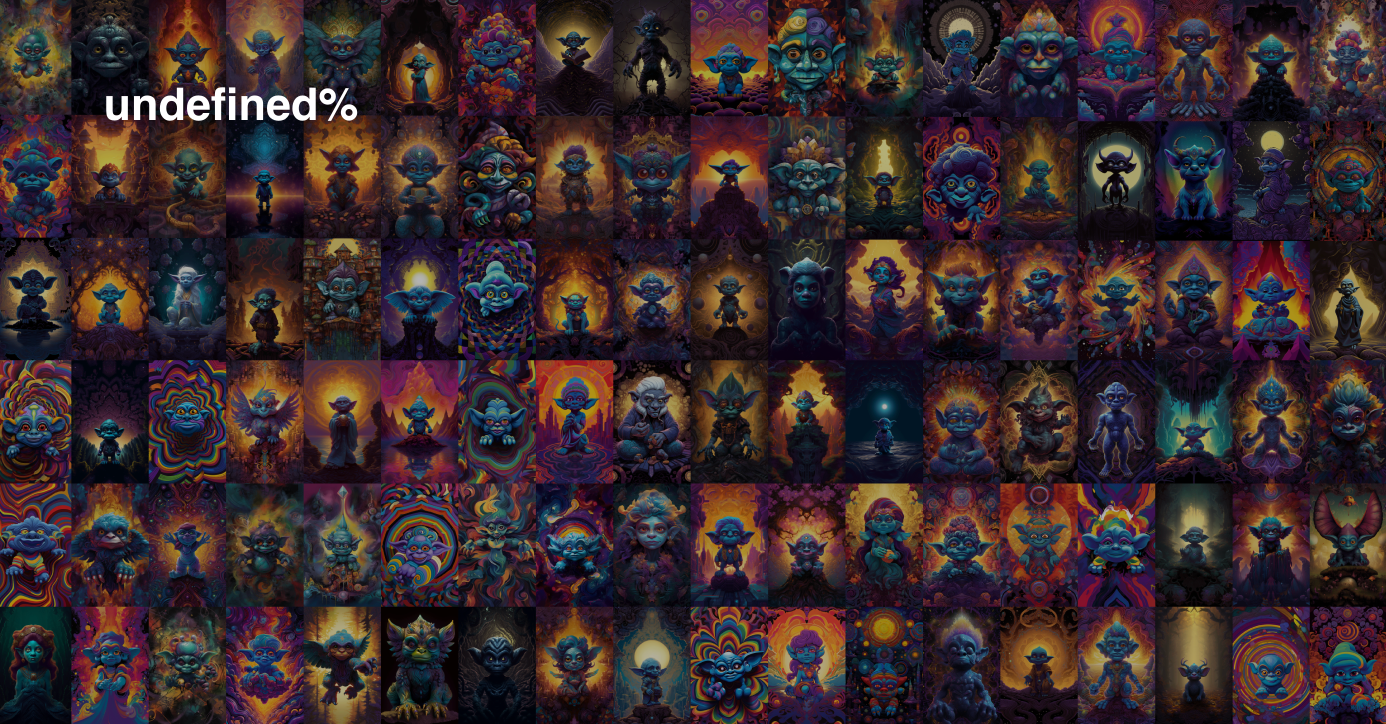
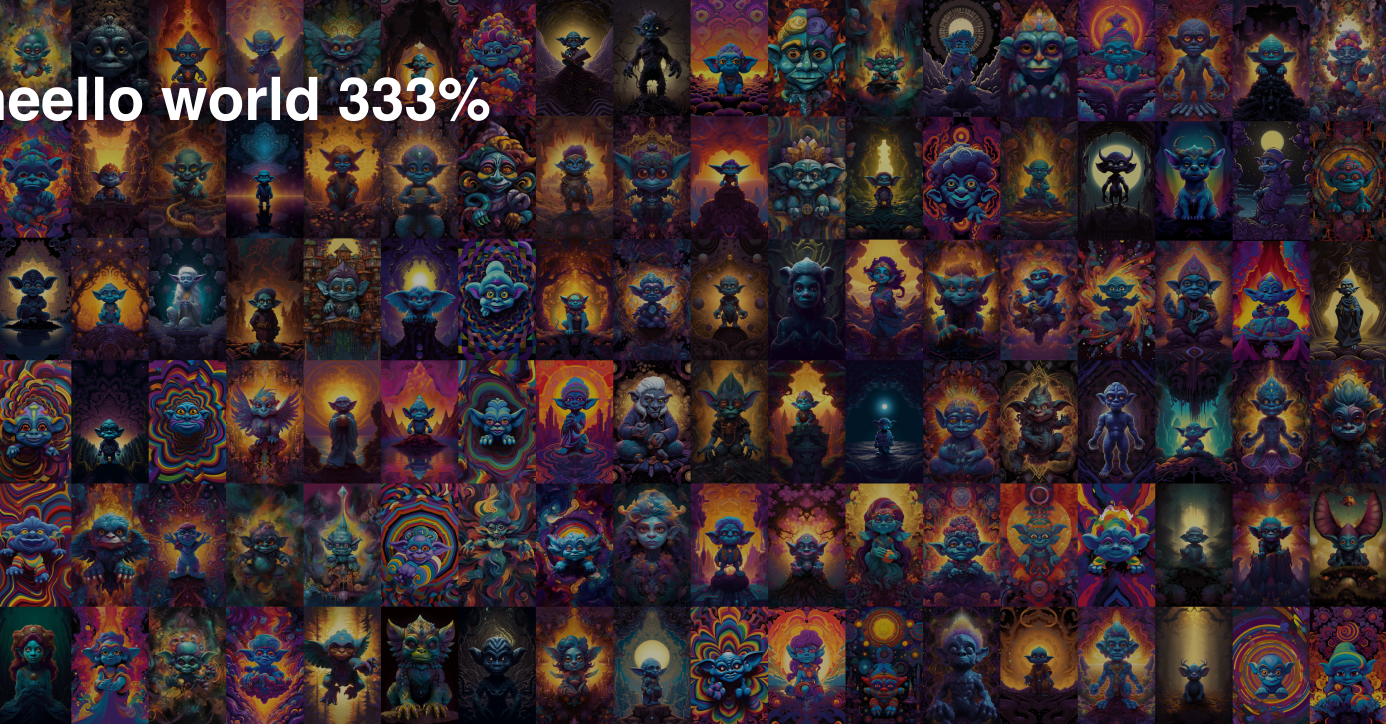
aloja

Changed region(s): [[0.0, 0.0912, 0.3723, 0.1823]]

diff --git a/routes/farhack/index.js b/routes/farhack/index.js
@@ -1,0 +1,184 @@
+const express = require("express");
+const router = express.Router();
+const axios = require("axios");
+const fs = require("fs");
+const sharp = require("sharp");
+const prisma = require("../../lib/prismaClient");
+
+///////////// MIDJOURNEY ON A FRAME  ////////////////////////
+
+const botName = ``;
+
+router.get("/", async (req, res) => {
+  try {
+    const fullUrl = req.protocol + "://" + req.get("host");
+    res.setHeader("Content-Type", "text/html");
+    res.status(200).send(`
+    <!DOCTYPE html>
+    <html>
+    <head>
+      <title>${botName}</title>
+      <meta property="og:title" content="${botName}">
+      <meta property="og:image" content="https://github.com/jpfraneto/images/blob/main/first_frame_image.png?raw=true">
+      <meta name="fc:frame" content="vNext">
+      <meta name="fc:frame:image" content="https://github.com/jpfraneto/images/blob/main/first_frame_image.png?raw=true">
+      <meta name="fc:frame:post_url" content="${fullUrl}/farhack">
+      <meta name="fc:frame:button:1" content="activate ${botName}">
+    </head>
+    </html>
+    `);
+  } catch (error) {
+    console.error(error);
+    res.status(500).send("Error generating image");
+  }
+});
+
+router.get("/image", async (req, res) => {
+  try {
+    console.log("req", req.query);
+    const imageCopy = decodeURIComponent(req.query.text);
+
+    const response = await axios({
+      url: "https://github.com/jpfraneto/images/blob/main/first_frame_image.png?raw=true",
+      responseType: "arraybuffer",
+    });
+    const imageBuffer = Buffer.from(response.data, "binary");
+    const metadata = await sharp(imageBuffer).metadata();
+    const imageWidth = metadata.width;
+    const imageHeight = metadata.height;
+
+    // Prepare a black overlay as an SVG with lowered opacity
+    const blackOverlay = `<svg width="${imageWidth}" height="${imageHeight}" xmlns="http://www.w3.org/2000/svg">
+          <rect width="100%" height="100%" fill="black" fill-opacity="0.6"></rect>
+          <style>
+            .text { font: bold 48px sans-serif; fill: white; text-anchor: start; }
+          </style>
+          <text x="16%" y="25%" class="text" dominant-baseline="hanging">${imageCopy}</text>
+        </svg>`;
+
+    sharp(imageBuffer)
+      .composite([{ input: Buffer.from(blackOverlay), gravity: "center" }])
+      .toFormat("png")
+      .toBuffer()
+      .then((outputBuffer) => {
+        // Optionally save to a file for debugging
+        fs.writeFileSync("output_with_overlay.png", outputBuffer);
+        res.setHeader("Content-Type", "image/png");
+        res.send(outputBuffer);
+      })
+      .catch((error) => {
+        console.error("Error processing image", error);
+        res.status(500).send("Error processing image");
+      });
+  } catch (error) {
+    console.error("There was an error creating the image", error);
+    res.status(500).send("An error occurred");
+  }
+});
+
+router.post("/", async (req, res) => {
+  try {
+    const fullUrl = req.protocol + "://" + req.get("host");
+    console.log("inside the post route", req.body);
+    const imageCopy = "times per day?";
+    return res.status(200).send(`
+      <!DOCTYPE html>
+      <html>
+      <head>
+        <title>${botName}</title>
+        <meta property="og:title" content="anky mint">
+        <meta property="og:image" content=${fullUrl}/farhack/image?text=}>
+        <meta name="fc:frame" content="vNext">
+        <meta name="fc:frame:image" content=${fullUrl}/farhack/image?text=${encodeURIComponent(
+      imageCopy
+    )}>
+        <meta name="fc:frame:post_url" content="${fullUrl}/farhack/second-frame" />
+        <meta name="fc:frame:button:1" content="1" />
+        <meta name="fc:frame:button:2" content="2" />
+        <meta name="fc:frame:button:3" content="3" />
+        <meta name="fc:frame:button:4" content="custom" />
+        </head>
+      </html>
+        `);
+  } catch (error) {
+    console.error(error);
+    res.status(500).send("Error generating image");
+  }
+});
+
+router.post("/second-frame", async (req, res) => {
+  try {
+    let imageCopy;
+    console.log("this is the second frame route.", req.body);
+    const fullUrl = req.protocol + "://" + req.get("host");
+
+    if (
+      [1, 2, 3].includes(req.body.untrustedData.buttonIndex) ||
+      req.body.untrustedData.inputText
+    ) {
+      // send this information to the bot so that it can know how often to reply
+      let isValidNumber = Number(req.body.untrustedData.inputText);
+      console.log("the is valid number is: ", isValidNumber);
+      if (!isValidNumber) {
+        console.log(req.body.untrustedData);
+        imageCopy = req.body.untrustedData.inputText;
+        return res.status(200).send(`
+      <!DOCTYPE html>
+      <html>
+      <head>
+        <title>${botName}</title>
+        <meta property="og:title" content="anky mint">
+        <meta property="og:image" content=${fullUrl}/farhack/image?text=}>
+        <meta name="fc:frame" content="vNext">
+        <meta name="fc:frame:image" content=${fullUrl}/farhack/image?text=${encodeURIComponent(
+          imageCopy
+        )}>
+        <meta name="fc:frame:post_url" content="${fullUrl}/farhack/second-frame" />
+        <meta name="fc:frame:input:text" content="1 2 3 4 5 6 7 8 9" />
+        <meta name="fc:frame:button:1" content="submit" />
+        </head>
+      </html>
+        `);
+      }
+      const repliesPerDay = req.body.untrustedData.textInput;
+      imageCopy = "your preference is known.";
+      return res.status(200).send(`
+      <!DOCTYPE html>
+      <html>
+      <head>
+        <title>${botName}</title>
+        <meta property="og:title" content="anky mint">
+        <meta property="og:image" content=${fullUrl}/farhack/image?text=}>
+        <meta name="fc:frame" content="vNext">
+        <meta name="fc:frame:image" content=${fullUrl}/farhack/image?text=${encodeURIComponent(
+        imageCopy
+      )}>
+        </head>
+      </html>
+        `);
+    } else {
+      imageCopy = "enter a number smaller than 10";
+      return res.status(200).send(`
+      <!DOCTYPE html>
+      <html>
+      <head>
+        <title>${botName}</title>
+        <meta property="og:title" content="anky mint">
+        <meta property="og:image" content=${fullUrl}/farhack/image?text=}>
+        <meta name="fc:frame" content="vNext">
+        <meta name="fc:frame:image" content=${fullUrl}/farhack/image?text=${encodeURIComponent(
+        imageCopy
+      )}>
+        <meta name="fc:frame:post_url" content="${fullUrl}/farhack/second-frame" />
+        <meta name="fc:frame:input:text" content="send" />
+        <meta name="fc:frame:button:1" content="submit" />
+        </head>
+      </html>
+        `);
+    }
+  } catch (error) {
+    console.log("there was an error here", error);
+  }
+});
+
+module.exports = router;

diff --git a/app.js b/app.js
@@ -4,7 +4,7 @@ const express = require("express");
 const prisma = require("./lib/prismaClient");
 const bodyParser = require("body-parser");
 
-const framesRoutes = require("./routes/farcaster-frames");
+const farhackRoute = require("./routes/farhack");
 
 const app = express();
 app.use(cors());
@@ -12,7 +12,7 @@ app.use(bodyParser.json({ limit: "50mb" }));
 app.use(bodyParser.urlencoded({ limit: "50mb", extended: true }));
 const port = 3000;
 
-app.use("/farcaster-frames", framesRoutes);
+app.use("/farhack", farhackRoute);
 
 // ********* ROUTES ***********
 
